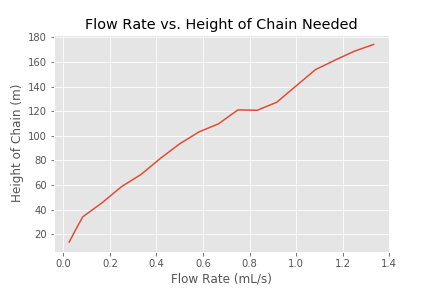
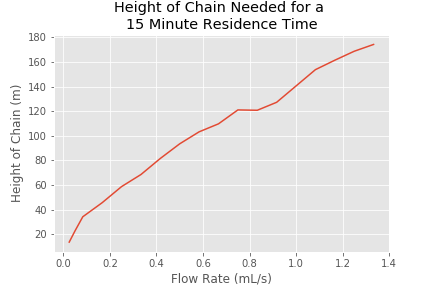
changed graph names

Changed region(s): [[0.1806, 0.0, 0.8426, 0.125]]

diff --git a/Spring 2019/Python Graphs.md b/Spring 2019/Python Graphs.md
@@ -8,7 +8,7 @@ x,y = np.loadtxt('CFRT_FR_vs_VWC.csv',
                  delimiter = ',')
 
 plt.plot(x,y)
-plt.title('Flow Rate vs. Volume of Water on Chain')
+plt.title('Volume of Water on Chain at Different Flow Rates')
 plt.xlabel('Flow Rate (mL/s)')
 plt.ylabel('Volume of Water on Chain (mL)')
 plt.savefig('/Users/gvsso/OneDrive/Documents/Gaby/String-Digester/Spring 2019/images/FRvsVWC')
@@ -24,7 +24,7 @@ x,y = np.loadtxt('CFRT_FR_vs_HN.csv',
                 delimiter = ',')
 
 plt.plot(x,y)
-plt.title('Flow Rate vs. Height of Chain Needed')
+plt.title('Height of Chain Needed for a 15 Minute Residence Time')
 plt.xlabel('Flow Rate (mL/s)')
 plt.ylabel('Height of Chain (m)')
 plt.savefig('/Users/gvsso/OneDrive/Documents/Gaby/String-Digester/Spring 2019/images/FRvsHN')
@@ -40,7 +40,7 @@ x,y = np.loadtxt('CFRT_FR_vs_RT.csv',
                 delimiter = ',')
 
 plt.plot(x,y)
-plt.title('Flow Rate vs. Residence Time')
+plt.title('Residence Time of Water on Chain at Different Flow Rates')
 plt.xlabel('Flow Rate (mL/s)')
 plt.ylabel('Residence Time (s)')
 plt.savefig('/Users/gvsso/OneDrive/Documents/Gaby/String-Digester/Spring 2019/images/FRvsRT')
